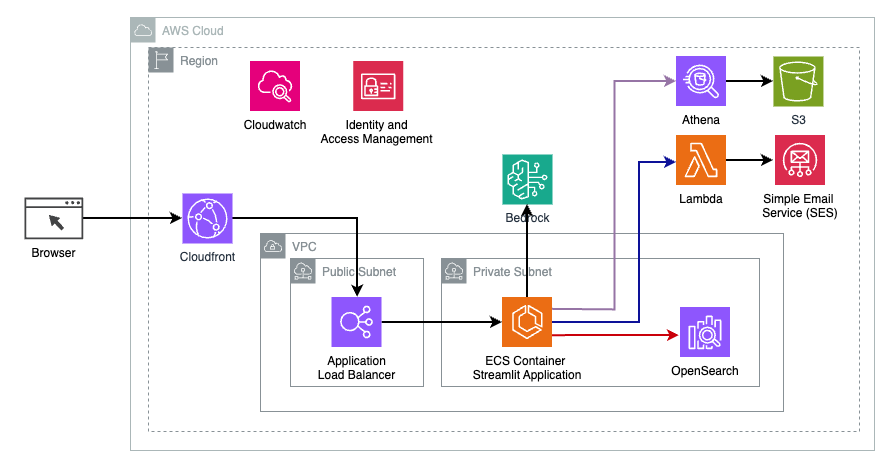
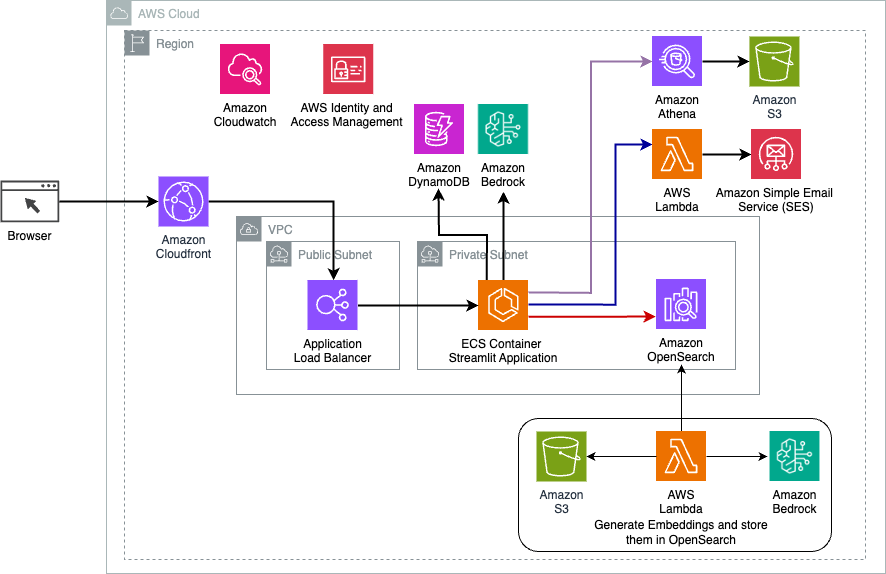
added documentation for memory

Changed region(s): [[0.0, 0.0, 1.0, 1.0], [0.2743, 0.6866, 0.3352, 0.7164]]

diff --git a/multi-route-chain-app/README.md b/multi-route-chain-app/README.md
@@ -8,7 +8,7 @@ This folder provides a step-by-step guide on creating a Conversational AI assist
 - **Specialized Chatbot Interactions**: Explains how to use Langchain's [LLMChain](https://api.python.langchain.com/en/latest/chains/langchain.chains.llm.LLMChain.html#langchain.chains.llm.LLMChain) for engaging in specialized conversations and performing tasks by leveraging large language models, ensuring that the AI can handle a variety of user intents with high precision.
 - **Natural Conversational Engagement**: Focuses on using the same [LLMChain](https://api.python.langchain.com/en/latest/chains/langchain.chains.llm.LLMChain.html#langchain.chains.llm.LLMChain) to maintain a natural and fluid conversation flow, making interactions feel more human-like and intuitive.
 
-A key aspect covered is the preservation of conversation context and chat history, which is crucial for the AI to understand the user's ongoing intent and provide responses that are coherent and contextually enriched. For details on how context is maintained and utilized to enhance conversations, the repository includes information on [Langchain memory](https://python.langchain.com/docs/modules/memory/) techniques.
+A key aspect covered is the preservation of conversation context and chat history, which is crucial for the AI to understand the user's ongoing intent and provide responses that are coherent and contextually enriched. Please review the Memory implementation section for an overview.
 
 ## Solution architecture
 
@@ -35,11 +35,18 @@ A key aspect covered is the preservation of conversation context and chat histor
 
 ![Technical Architecture](technical_architecture_langchain_implementation.png)
 
+
+### Memory implementation
+
+We use Langchain’s [Memory system](https://python.langchain.com/docs/modules/memory/) to add context for the LLM based on previous interactions. For example, if a user asks questions about a device, the LLM can determine the correct device ID as long as it was mentioned in a previous message. We use [RunnableWithMessageHistory](https://python.langchain.com/docs/expression_language/how_to/message_history) to add memory to specific chains. There are multiple memory implementations to store and retrieve history. We use AWS DynamoDB with langchain's [DynamoDBChatMessageHistory](https://python.langchain.com/docs/integrations/memory/aws_dynamodb) to externalize memory storage which allows for a loosely coupled design. It also provides persistent memory so that the user can recall and continue a previous chat session. This is shown in the following image. 
+
+![Chat sessions](choose_chat_history_session.png)
+
 ## Code struture
 
 This folder helps to set up the multi-route chain app using [CDK](https://aws.amazon.com/cdk/). Specifically, it contains the following stacks:
 
-- **MultiRouteChainBaseInfraStack**: it creates an S3 bucket and uploads all the data to be used by the Multi-route Chain APP to that bucket.
+- **MultiRouteChainBaseInfraStack**: it creates an S3 bucket and uploads all the data to be used by the Multi-route Chain APP to that bucket. It also creates the DynamoDB table to store chat history.
 - **MultiRouteChainSqlChainStack**: it creates a Glue Crawler to crawl the data in the data bucket and sets up Athena data catelog.
 - **MultiRouteChainRagStack**: it creates an OpenSearch serverless collection for vector search. And add the data into the index `docs`.
 - **MultiRouteChainActionLambdaStack**: it creates an action lambda to send SES email.
